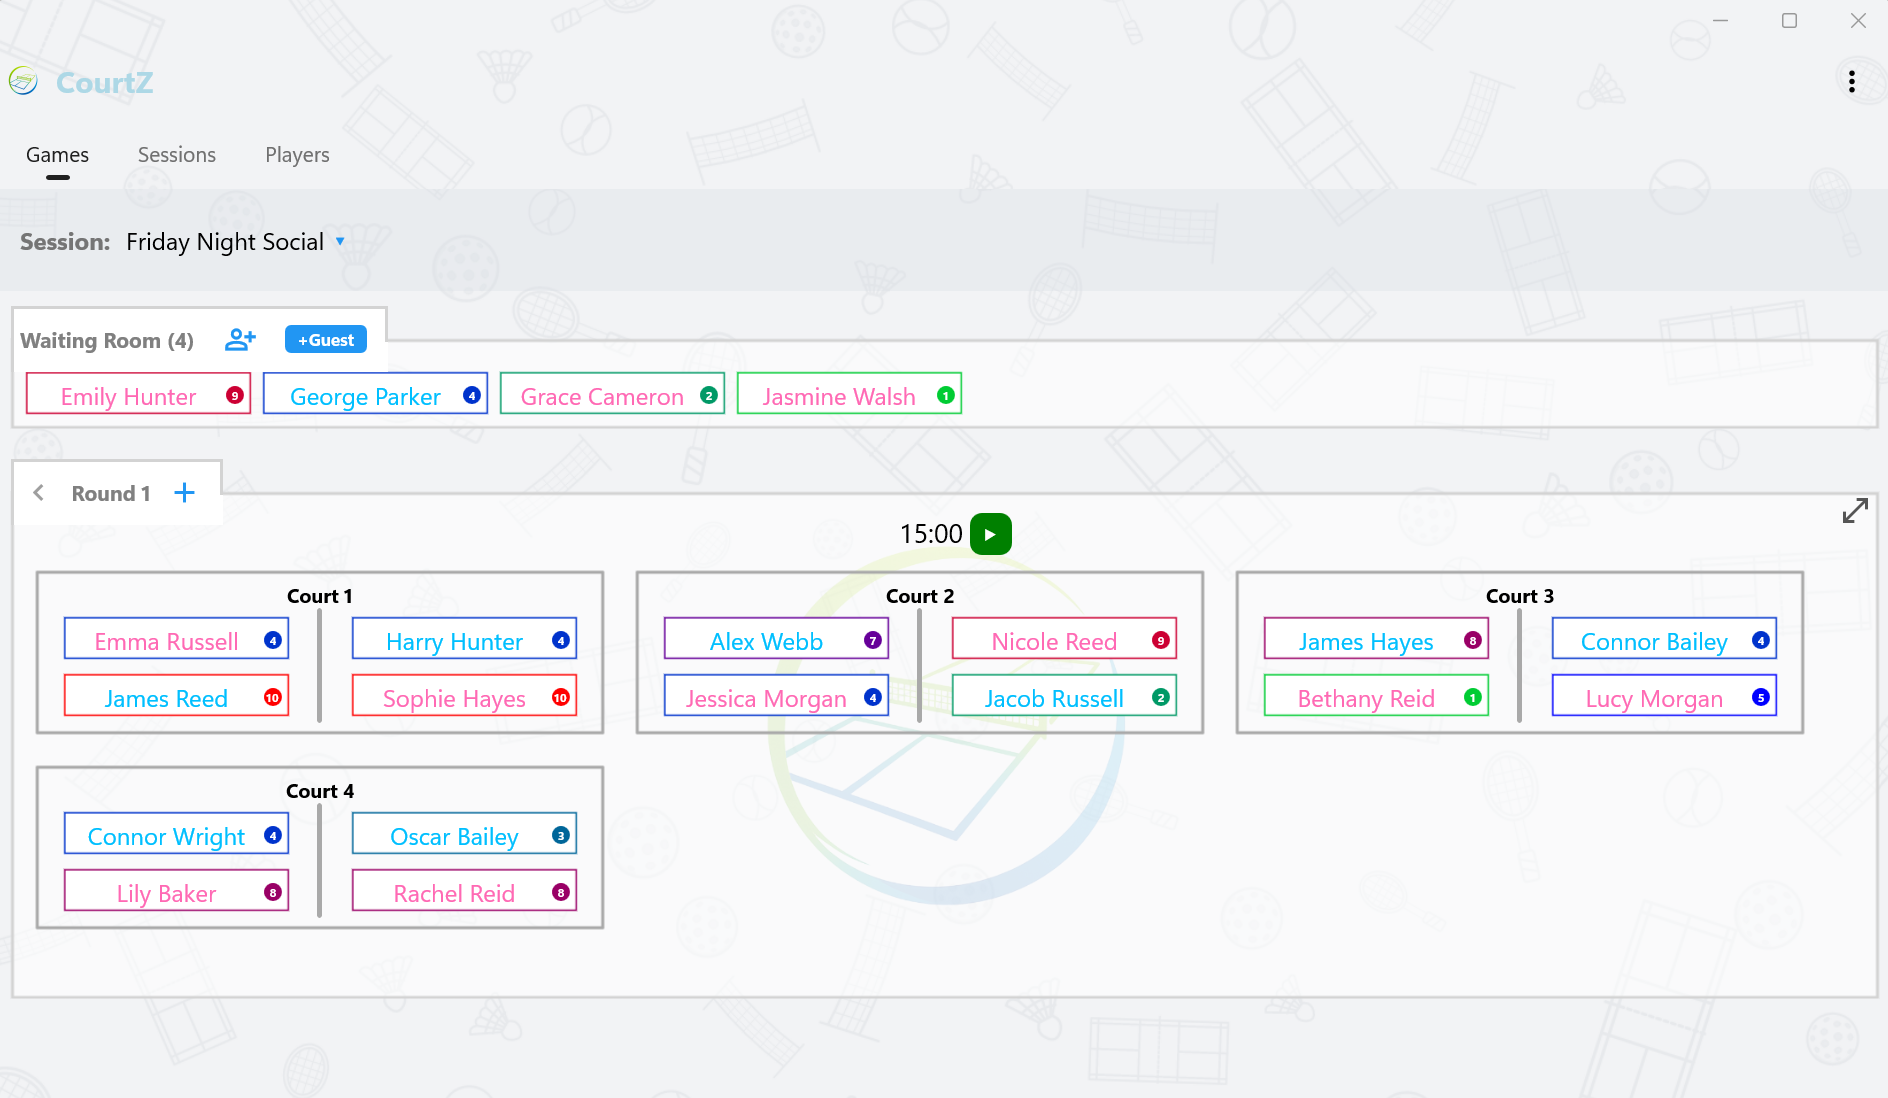
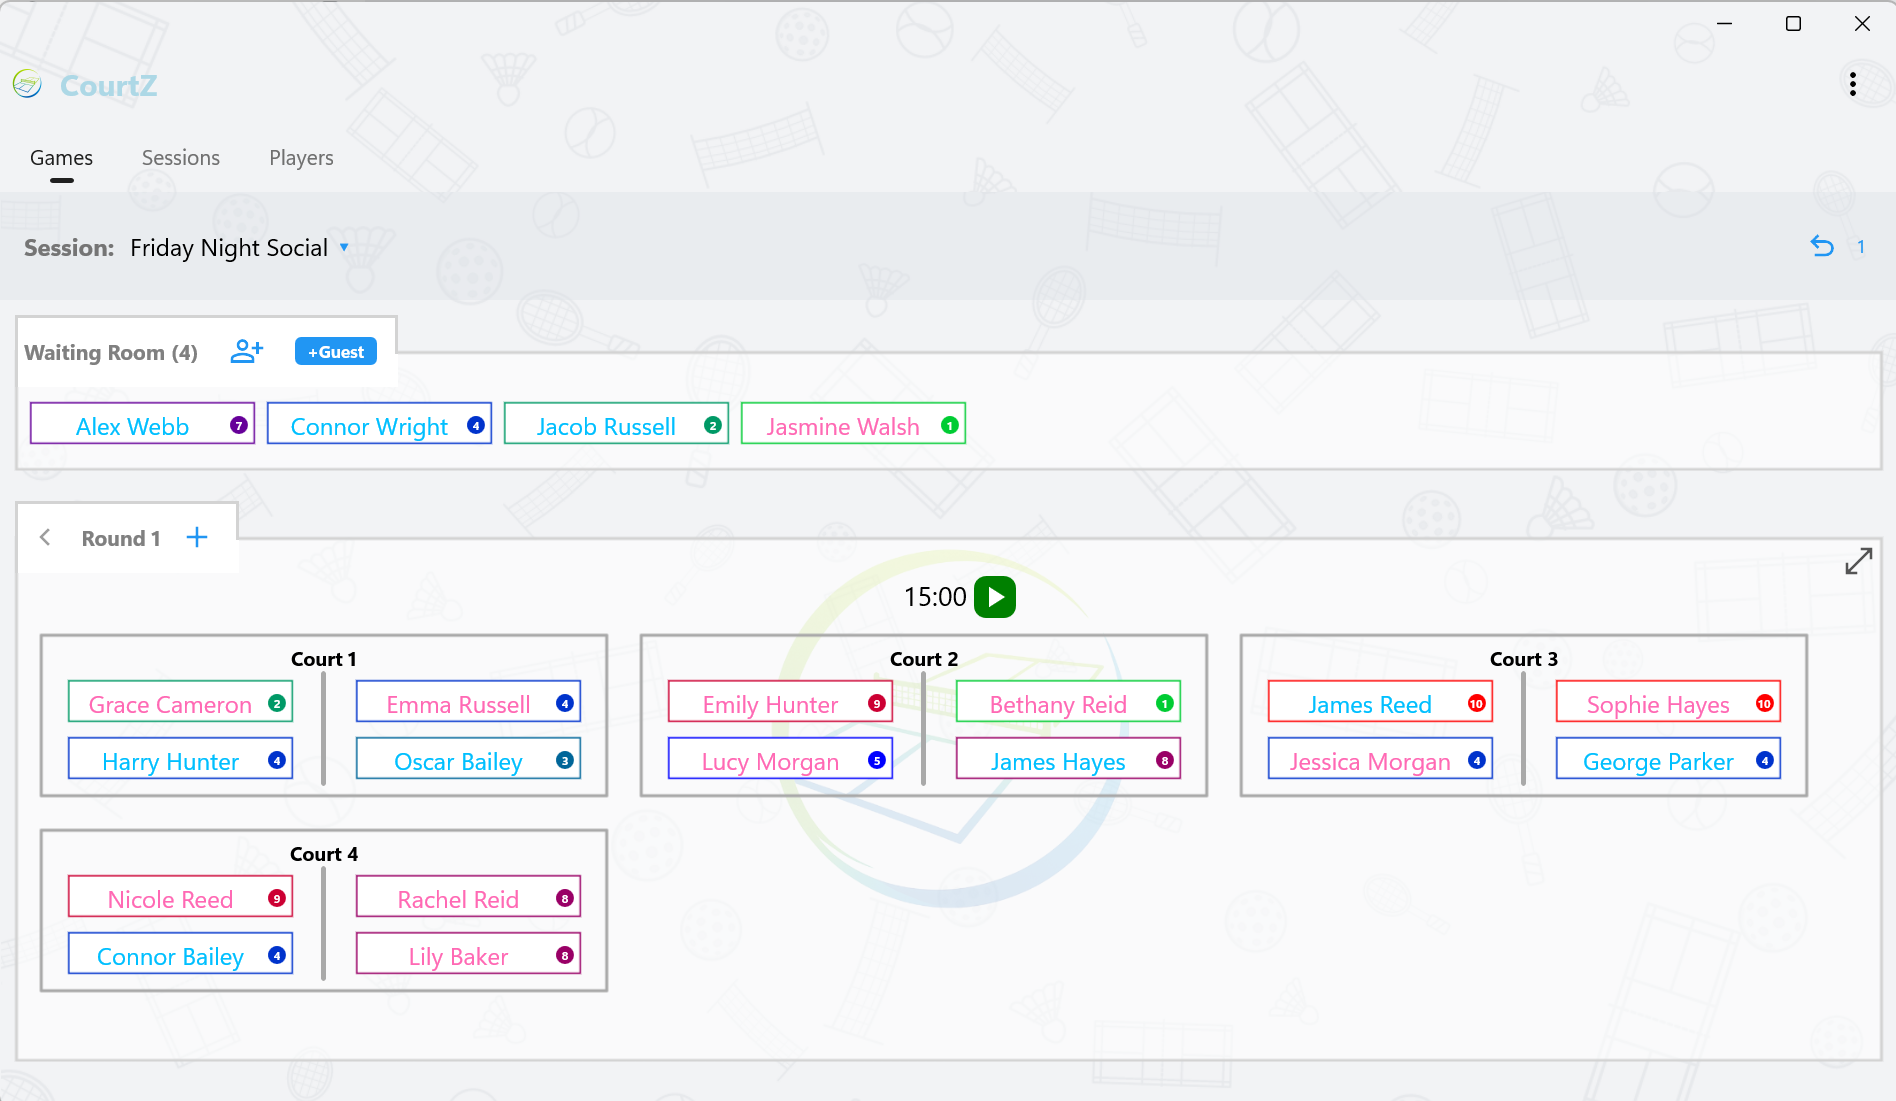
Refresh shared Games and Waiting Room screenshots for 4.1.1

diff --git a/download.html b/download.html
@@ -288,7 +288,7 @@
 
                     <div class="screenshot-frame">
 
-                        <img src="images/CourtZGamesPage.png?v=4.0.0"
+                        <img src="images/CourtZGamesPage.png?v=4.1.1"
                              alt="CourtZ Games page"
                              class="screenshot">
 

diff --git a/index.html b/index.html
@@ -116,7 +116,7 @@
 
                 <div class="hero-image">
 
-                    <img src="images/CourtZGamesPage.png?v=4.0.0"
+                    <img src="images/CourtZGamesPage.png?v=4.1.1"
                          alt="CourtZ games screen">
 
                 </div>

diff --git a/help/05-game-generation.md b/help/05-game-generation.md
@@ -12,11 +12,11 @@ When you select **Start Session**, CourtZ automatically generates the first roun
 
 Players are allocated to courts and any remaining players are placed in the Waiting Room.
 
-<img src="../images/CourtZGamesPage.png?v=4.0.0"
+<img src="../images/CourtZGamesPage.png?v=4.1.1"
      alt="Games page"
      width="900">
 
-*The Games page showing players on court, the Waiting Room and the controls used to manage the session.*
+*The Games page showing four waiting players, four courts, the countdown timer and one change available to Undo at the right of the session selector strip.*
 
 Players can now move to their allocated courts and begin play.
 
@@ -122,12 +122,6 @@ The Waiting Room is managed automatically throughout the session.
 As each new round is generated, players move between the courts and the Waiting Room.
 
 If there are more players than available court spaces, some players remain in the Waiting Room until they can be included in a later round.
-
-<img src="images/waiting-room.png"
-     alt="Waiting Room"
-     width="900">
-
-*Players waiting for their next game remain in the Waiting Room until CourtZ allocates them to an available court.*
 
 ---
 

diff --git a/help/04-running-a-session.md b/help/04-running-a-session.md
@@ -113,8 +113,8 @@ Players are placed in the Waiting Room automatically when:
 
 CourtZ uses the Waiting Room whenever new games are generated, automatically moving waiting players onto available courts.
 
-<img src="images/waiting-room.png"
-     alt="Waiting Room"
+<img src="../images/CourtZGamesPage.png?v=4.1.1"
+     alt="Play Session with four players in the Waiting Room above four occupied courts"
      width="900">
 
 *The Waiting Room contains players waiting for their next game. As courts become available, CourtZ automatically selects players from the Waiting Room when generating the next round.*
